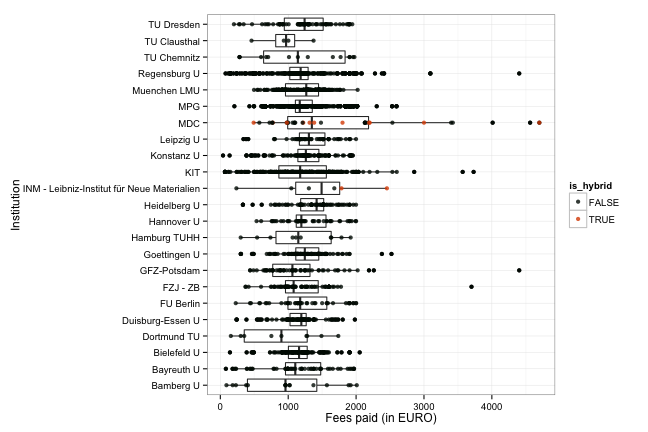
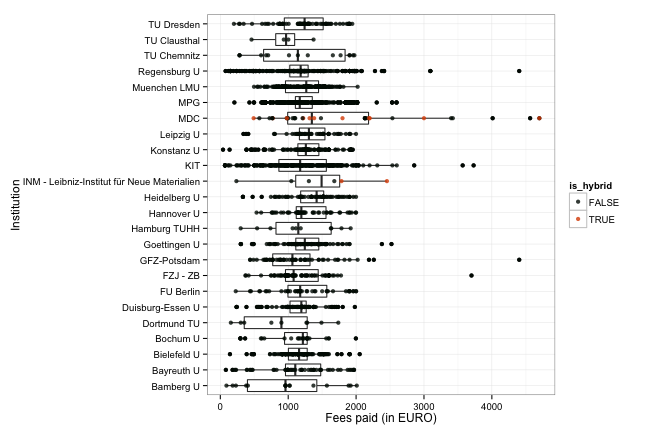
rub 2014

diff --git a/about.md b/about.md
@@ -26,6 +26,7 @@ So far, the following German universities have agreed to share information on pa
 - [Ludwig-Maximilians-Universität München](http://www.en.ub.uni-muenchen.de/writing/open-access-publishing/funding/index.html)
 - [Free University of Berlin](http://www.fu-berlin.de/sites/open_access/dienstleistungen/artikelgebuehren/publikationsfonds/index.html)
 - [KIT Karlsruhe](http://www.bibliothek.kit.edu/cms/kit-publikationsfonds.php)
+- [Ruhr Universität Bochum](http://www.ruhr-uni-bochum.de/oa/)
 - [Technische Universität Chemnitz](https://www.tu-chemnitz.de/ub/publizieren/openaccess/publikationsfonds.html)
 - [Technische Universität Dortmund](http://www.ub.tu-dortmund.de/open-access/index.html)
 - [Technische Universität Dresden](http://www.slub-dresden.de/service/schreiben-publizieren/open-access-service/publikationsfonds/)
@@ -56,13 +57,13 @@ ation/library)
 
 Information on both open access journal articles and open access publication of articles in toll-access journals ("hybrid") are provided.
 
-In total,  3 679 062€ for  3 004 articles were paid by the participating unviversities. Average  fee is 1 224.7€ and the median 1 190€.
+In total,  3 706 751€ for  3 029 articles were paid by the participating unviversities. Average  fee is 1 223.8€ and the median 1 190€.
 
 ### Open Access Journals
 
 
 
-At the moment, the dataset releases information on 2 991 articles in open access journals which charge publication fees. Total expenditure amounts to  3 654 769€. Average  fee is 1 221.9€ and the median 1 190€.
+At the moment, the dataset releases information on 3 016 articles in open access journals which charge publication fees. Total expenditure amounts to  3 682 458€. Average  fee is 1 221€ and the median 1 190€.
 
 View dataset on [GitHub](https://github.com/OpenAPC/openapc-de/blob/master/data/apc_de.csv).
 
@@ -72,6 +73,7 @@ View dataset on [GitHub](https://github.com/OpenAPC/openapc-de/blob/master/data/
 |Bamberg U                                   |       16|             15932|           996|    960|
 |Bayreuth U                                  |       57|             64519|          1132|   1104|
 |Bielefeld U                                 |      160|            187296|          1171|   1160|
+|Bochum U                                    |       25|             27689|          1108|   1216|
 |Dortmund TU                                 |        9|              8238|           915|    900|
 |Duisburg-Essen U                            |      114|            130989|          1149|   1194|
 |FU Berlin                                   |       45|             56074|          1246|   1177|
@@ -165,7 +167,7 @@ This work is licensed under the Creative Commons Attribution 4.0 Unported Licens
 
 Bielefeld University Library archives a remote including version history. To cite:
 
-Apel, Jochen; Becker, Hans-Georg; Bertelmann, Roland; Beucke, Daniel; Blumtritt, Ute; Busjahn, Dorothea;  Deinzer, Gernot; Dorner, Andrea; Engelhardt, Clemens; Hell, Dominik; Herb, Ulrich; Feldsien-Sudhaus, Inken; Franke, Fabian; Frick, Claudia; Geschuhn, Kai Karin; Kuehle, Gerrit; Jaeger, Doris;  Lützenkirchen, Frank; Kroiss, Stephanie; Oberländer, Anja; 
+Apel, Jochen; Becker, Hans-Georg; Bertelmann, Roland; Beucke, Daniel; Blumtritt, Ute; Busjahn, Dorothea;  Deinzer, Gernot; Dorner, Andrea; Engelhardt, Clemens; Hell, Dominik; Herb, Ulrich; Feldsien-Sudhaus, Inken; Franke, Fabian; Frick, Claudia; Geschuhn, Kai Karin; Jaeger, Doris; Kroiss, Stephanie; Kuehle, Gerrit; Lucht-Roussel, Kathrin;  Lützenkirchen, Frank; Oberländer, Anja; 
 Peil, Vitali; Pieper, Dirk; Schlachter, Michael; Schlegel, Birgit; Sikora, Adriana; Tullney, Marco; Vieler, Astrid; Witt, Sabine; Jahn, Najko; (2014 -): *Datasets on fee-based Open Access publishing across German Institutions*. Bielefeld University. [10.4119/UNIBI/UB.2014.18](http://dx.doi.org/10.4119/UNIBI/UB.2014.18)
 
 ## Acknowledgement
@@ -176,7 +178,7 @@ For data enrichment, sample visualisations and explorations we build on the work
 
 ## Contributors
 
-Jochen Apel, Hans-Georg Becker, Roland Bertelmann, Daniel Beucke, Ute Blumtritt, Dorothea Busjahn, Gernot Deinzer, Andrea Dorner,  Clemens Engelhardt, Dominik Hell, Ulrich Herb, Inken Feldsien-Sudhaus, Fabian Franke, Claudia Frick, Kai Karin Geschuhn, Gerrit Kuehle, Doris Jaeger, Stephanie Kroiss, Frank Lützenkirchen, Anja Oberländer, Vitali Peil, Dirk Pieper, Michael Schlachter, Birgit Schlegel, Adriana Sikora, Marco Tullney, Astrid Vieler, Sabine Witt, Najko Jahn
+Jochen Apel, Hans-Georg Becker, Roland Bertelmann, Daniel Beucke, Ute Blumtritt, Dorothea Busjahn, Gernot Deinzer, Andrea Dorner,  Clemens Engelhardt, Dominik Hell, Ulrich Herb, Inken Feldsien-Sudhaus, Fabian Franke, Claudia Frick, Kai Karin Geschuhn, Gerrit Kuehle, Doris Jaeger, Stephanie Kroiss, Kathrin Lucht-Roussel, Frank Lützenkirchen, Anja Oberländer, Vitali Peil, Dirk Pieper, Michael Schlachter, Birgit Schlegel, Adriana Sikora, Marco Tullney, Astrid Vieler, Sabine Witt, Najko Jahn
 
 ## Contact
 

diff --git a/_posts/2015-06-01-rub.md b/_posts/2015-06-01-rub.md
@@ -1,0 +1,35 @@
+---
+layout:     post
+author:		Najko Jahn
+title:      Ruhr Universität Bochum joins openapc.github.io!
+date:       2015-06-01 17:21:29
+summary:    
+categories: general
+comments: true
+---
+
+
+
+
+The [Ruhr Universität Bochum](http://www.ruhr-uni-bochum.de/index_en.htm) has joined [openapc.github.io](https://openapc.github.io) and is sharing its expenditures for publications in Open Access journals. The [University Library](http://www.ub.ruhr-uni-bochum.de/index.html.en) is in charge of the [Open Access Publication Funds of the university](http://www.ruhr-uni-bochum.de/oa/), which has been receiving support by the Deutsche Forschungsgemeinschaft (DFG) under its [Open-Access Publishing Programme](http://www.dfg.de/en/research_funding/programmes/infrastructure/lis/funding_opportunities/open_access_publishing/index.html) since 2014.
+
+
+Contact person is Kathrin Lucht-Roussel <mailto:oa@rub.de>.
+
+### Cost data
+
+
+
+The data set covers publication fees for 25 Open Access journal articles paid in 2014. Total expenditure was 27 689€ and the average fee paid 1 108€.
+
+### Fees paid per publisher (in €)
+
+![plot of chunk tree_rub](/figure/tree_rub-1.png) 
+
+###  Average costs per year (in €)
+
+![plot of chunk box_rub_year](/figure/box_rub_year-1.png) 
+
+###  Average costs per publisher (in €)
+
+![plot of chunk box_rub_publisher](/figure/box_rub_publisher-1.png) 
